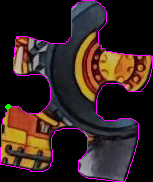
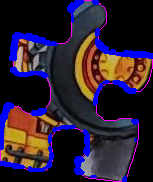
v5

diff --git a/v5.py b/v5.py
@@ -113,7 +113,6 @@ def extract_puzzle_pieces(image_path):
     ### extraction every time
     print("Analyzing edges of pieces using Harris Corner Detection")
     for idx, contour in enumerate(contours[:test_number]):
-
         # Extract individual piece
         x, y, w, h = cv2.boundingRect(contour)
         mask = np.zeros_like(gray_image)
@@ -121,34 +120,44 @@ def extract_puzzle_pieces(image_path):
 
         piece = np.zeros_like(original_image)
         piece[mask == 255] = original_image[mask == 255]
-        cropped_piece = piece[y:y + h, x:x + w]  # Crop to bounding box
+        cropped_piece = piece[y:y + h, x:x + w]
+        mask_cropped = mask[y:y + h, x:x + w]
 
-        # Convert to grayscale for Harris
+        # Harris detection only on the piece mask
         gray_piece = cv2.cvtColor(cropped_piece, cv2.COLOR_BGR2GRAY)
         gray_piece = np.float32(gray_piece)
 
-        # Apply Harris Corner Detection
-        harris_corners = cv2.cornerHarris(gray_piece, blockSize=2, ksize=3, k=0.04)
-        harris_corners = cv2.dilate(harris_corners, None)  # Enhance corner points
+        # Create a masked version of the grayscale piece
+        # This ensures Harris only processes the actual piece
+        masked_gray_piece = gray_piece.copy()
+        masked_gray_piece[mask_cropped == 0] = 0
 
-        # Mark the strongest corners (threshold-based)
-        threshold = 0.02 * harris_corners.max()
+        # Apply Harris corner detection
+        harris_corners = cv2.cornerHarris(masked_gray_piece, blockSize=5, ksize=3, k=0.06)
+        harris_corners = cv2.dilate(harris_corners, None)
+
+        # Focus on the mask edges by zeroing out non-edge areas
+        # Create edge mask from the piece mask
+        edge_kernel = np.ones((3, 3), np.uint8)
+        edges = cv2.Canny(mask_cropped, 100, 200)
+
+        # Only keep corner responses near edges
+        edge_dilated = cv2.dilate(edges, edge_kernel, iterations=2)
+        harris_corners[edge_dilated == 0] = 0
+
+        # Find corner points above threshold
+        threshold = 0.01 * harris_corners.max()
         corner_points = np.argwhere(harris_corners > threshold)
 
-        # Convert to (x, y) format
-        detected_corners = [(x + cx, y + cy) for cy, cx in corner_points]
+        # Convert to original image coordinates
+        detected_corners = [(cx, cy) for cy, cx in corner_points]
 
-        # Keep only 4 strongest corners
-        if len(detected_corners) > 4:
-            detected_corners = sorted(detected_corners, key=lambda p: harris_corners[p[1] - y, p[0] - x], reverse=True)[
-                               :4]
-
-        # Draw pink contour (1px, no anti-aliasing)
+        # Draw pink contour
         cv2.drawContours(cropped_piece, [contour - [x, y]], -1, (255, 0, 255), 1, lineType=cv2.LINE_8)
 
-        # Draw green detected corners
+        # Draw ALL detected corners
         for corner in detected_corners:
-            cv2.circle(cropped_piece, (corner[0] - x, corner[1] - y), 2, (0, 255, 0), -1)
+            cv2.circle(cropped_piece, corner, 1, (255, 0, 0), -1)
 
         # Save the processed image
         corner_path = os.path.join(output_corner_folder, f"corner_piece_{idx + 1}.png")
